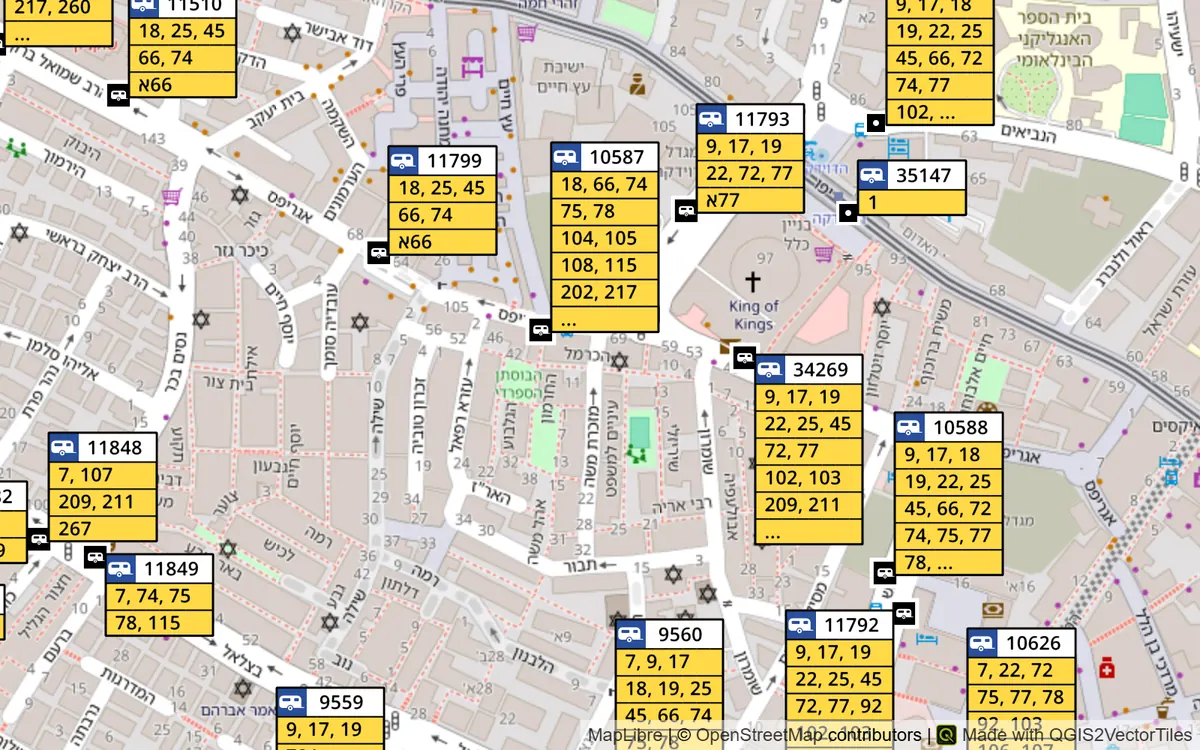
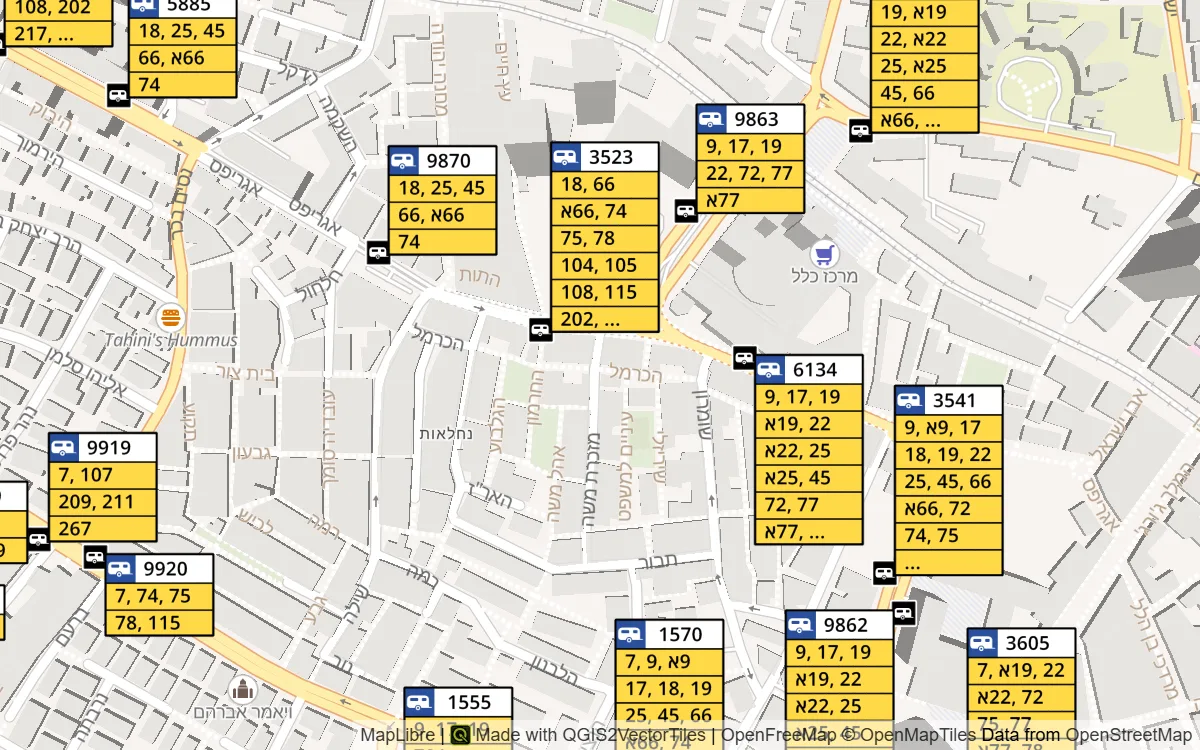
Gallery: the bus stops example opens on OpenFreeMap, as does its still
The Israel bus stops web map and its gallery preview open on the
OpenFreeMap background (local names) instead of OpenStreetMap's raster
tiles; its still is retaken on it, from the current export.

diff --git a/docs/examples/israel-bus-stops/index.html b/docs/examples/israel-bus-stops/index.html
@@ -37,7 +37,7 @@
             searchUrl: "style/search.json",
             // The background shown first (until the visitor picks one): "none"
             // (the project's background colour), "osm" or "bluemarble".
-            basemap: "osm",
+            basemap: "openfreemap",
         };
 
         // The map library: ?viewer=ml|ol (set by the viewer switch), else the
